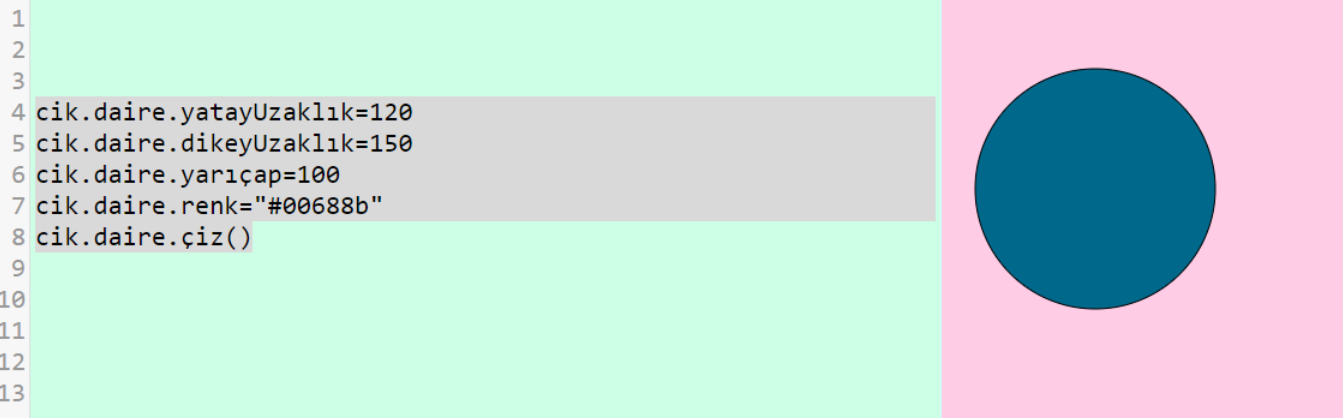
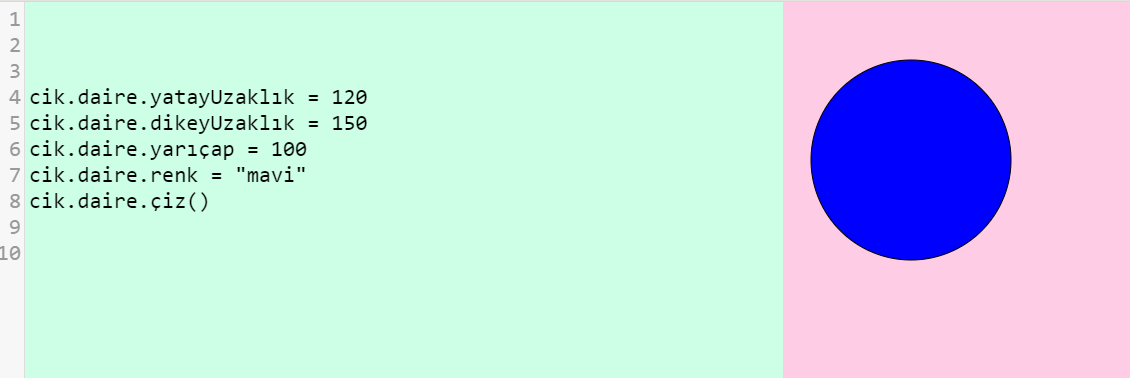
türkçe renk özelliği eklendi

diff --git a/yardim/cikYardim.html b/yardim/cikYardim.html
@@ -240,7 +240,8 @@
 
                 <h1>CiK Nesneleri</h1>
                 CiK kütüphanesi "dikdörtgen", "daire", "çokgen", "yıldız" gibi bir tanım nesnelerden oluşmuştur.
-                Bu nesneler kütüphane geliştikçe daha da artacaktır. Nesneler "kenar uzunluğu", "renk"  vb. gibi "özelliklere"  sahiptir.  Özelliklere Değer atayarak nesnelerimizin yapılarını değiştirebiliriz. Herhangi bir değer atanmadığı durumlarda "tanımlı" değerleri ile gösterilirler. Nesnelerimiz ayrıc "çiz" isminde metoda da sahiptir. Bu metot nesnelerimizin çizilmesi komutunu verir.
+                Bu nesneler kütüphane geliştikçe daha da artacaktır. Nesneler "kenar uzunluğu", "renk"  vb. gibi "özelliklere"  sahiptir.
+        Renk özelliği tanımlı olan ana renkler Türkçe ifadeler ile ya da renk kodu verilerek (örn: "#00688b") kullanılabilir. Özelliklere Değer atayarak nesnelerimizin yapılarını değiştirebiliriz. Herhangi bir değer atanmadığı durumlarda "tanımlı" değerleri ile gösterilirler. Nesnelerimiz ayrıc "çiz" isminde metoda da sahiptir. Bu metot nesnelerimizin çizilmesi komutunu verir.
 
                 <h2 id="dikdortgen">Dikdörtgen Nesnesi</h2>
                 <h3>Özellikleri</h3>
@@ -262,7 +263,7 @@ cik.dikdörtgen.yatayUzaklık= 200
 cik.dikdörtgen.dikeyUzaklık= 100
 cik.dikdörtgen.genişlik=300
 cik.dikdörtgen.yükseklik=200
-cik.dikdörtgen.renk="#008b00"
+cik.dikdörtgen.renk="yeşil"
 cik.dikdörtgen.çiz()
 </pre>
                 </code>
@@ -300,7 +301,7 @@ cik.dikdörtgen.çiz()
 cik.daire.yatayUzaklık=120
 cik.daire.dikeyUzaklık=150
 cik.daire.yarıçap=100
-cik.daire.renk="#00688b"
+cik.daire.renk="mavi"
 cik.daire.çiz()
 </pre>
                 </code>
